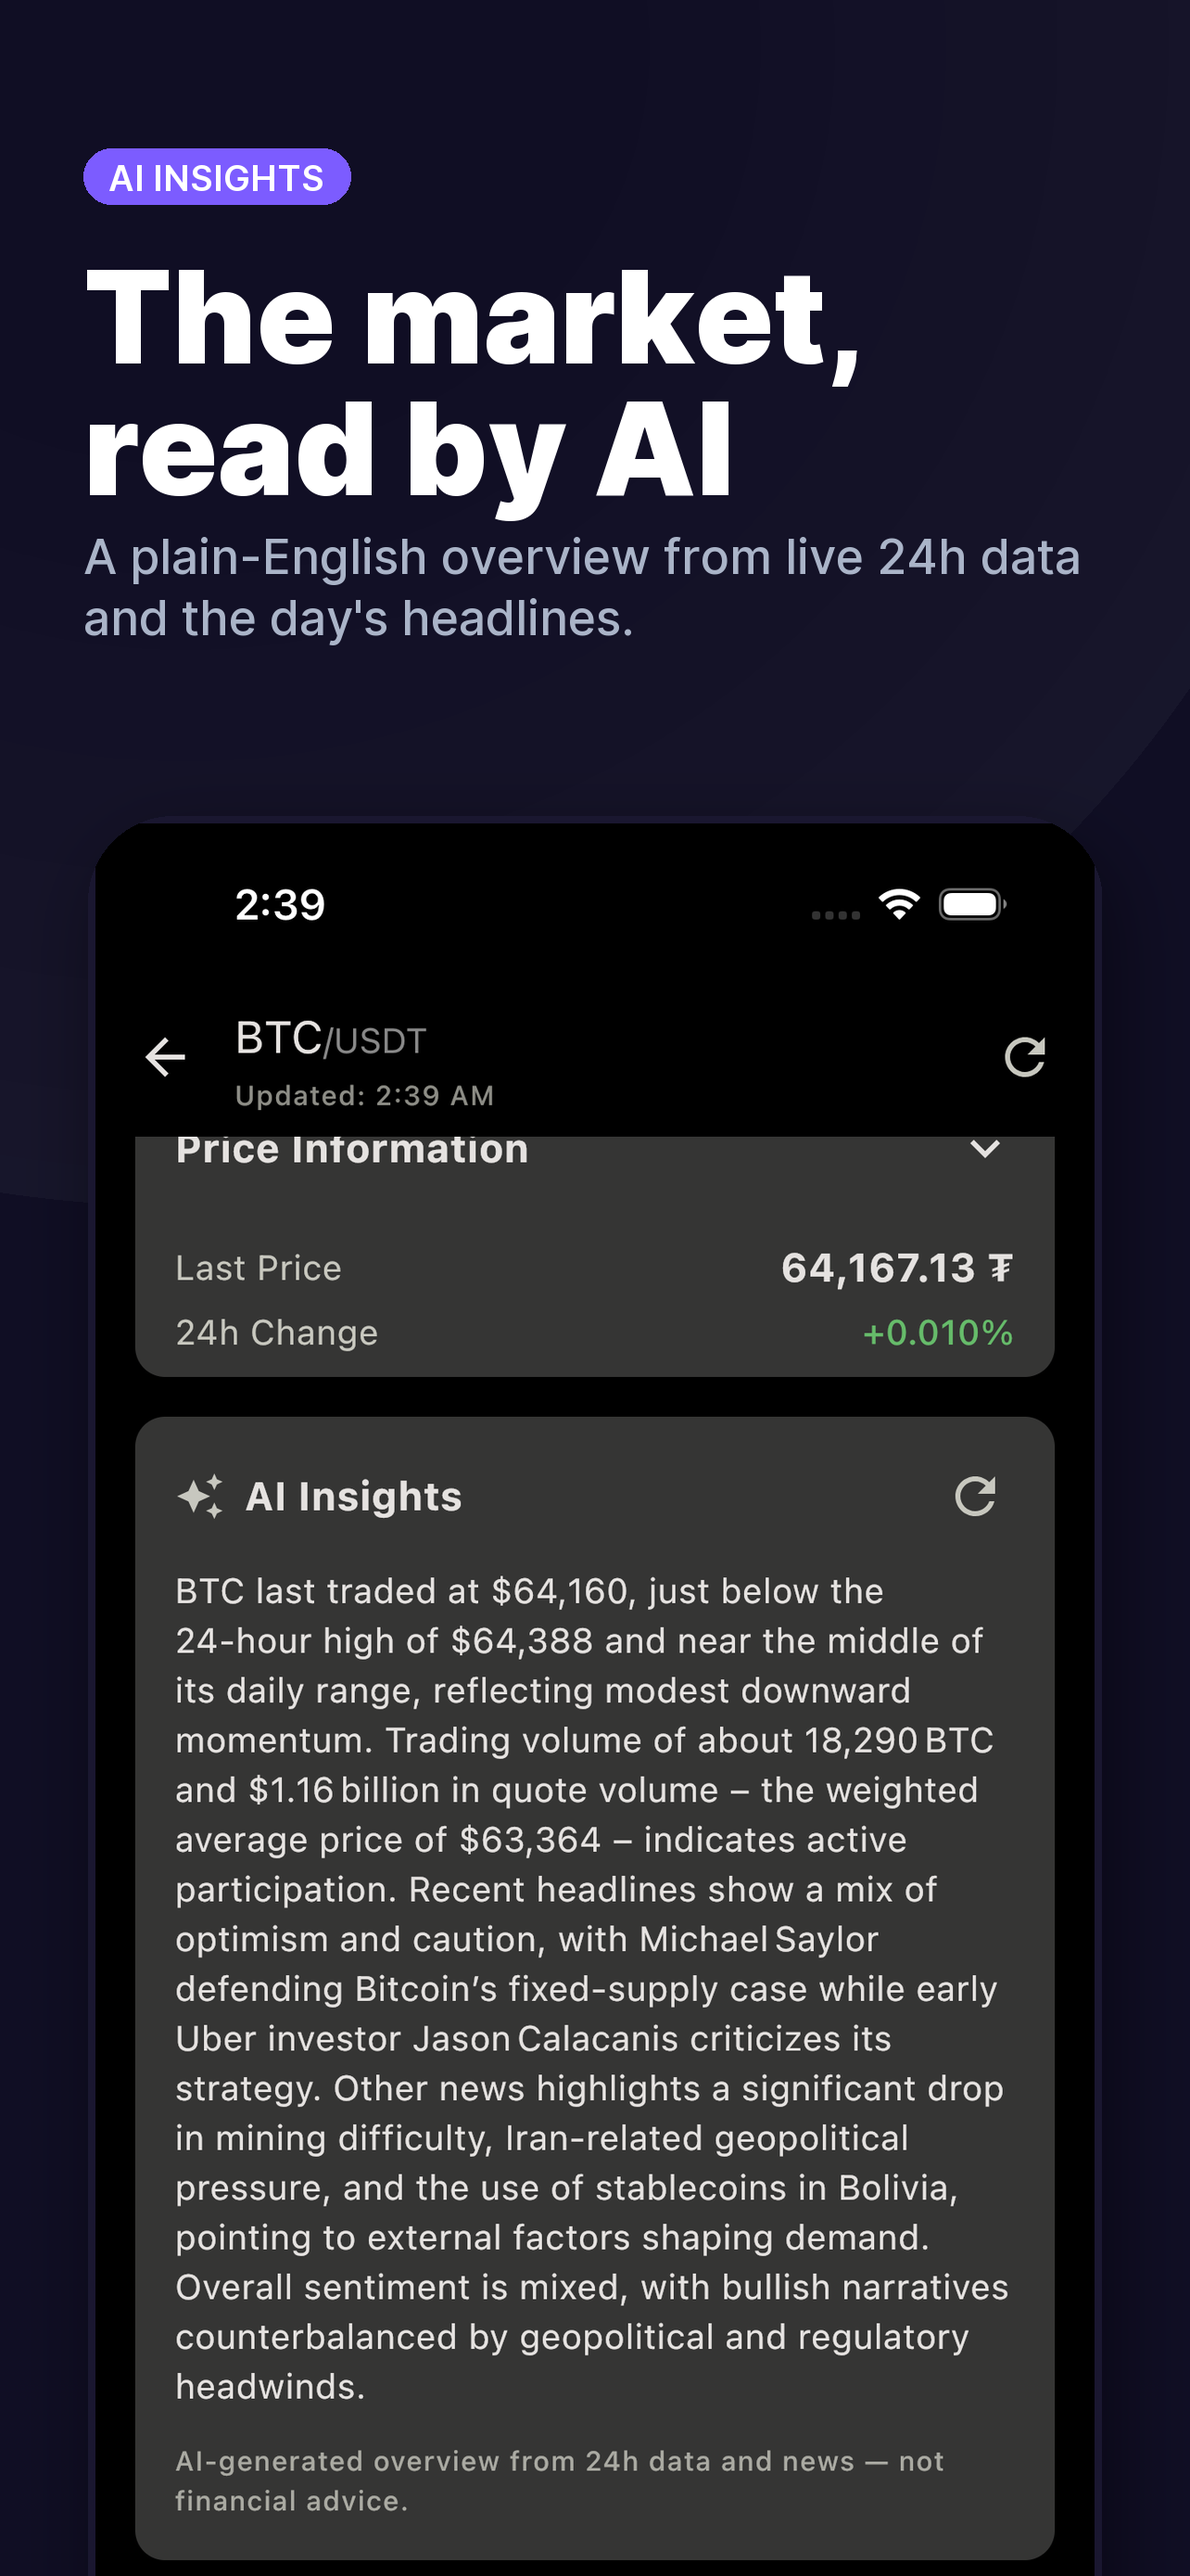
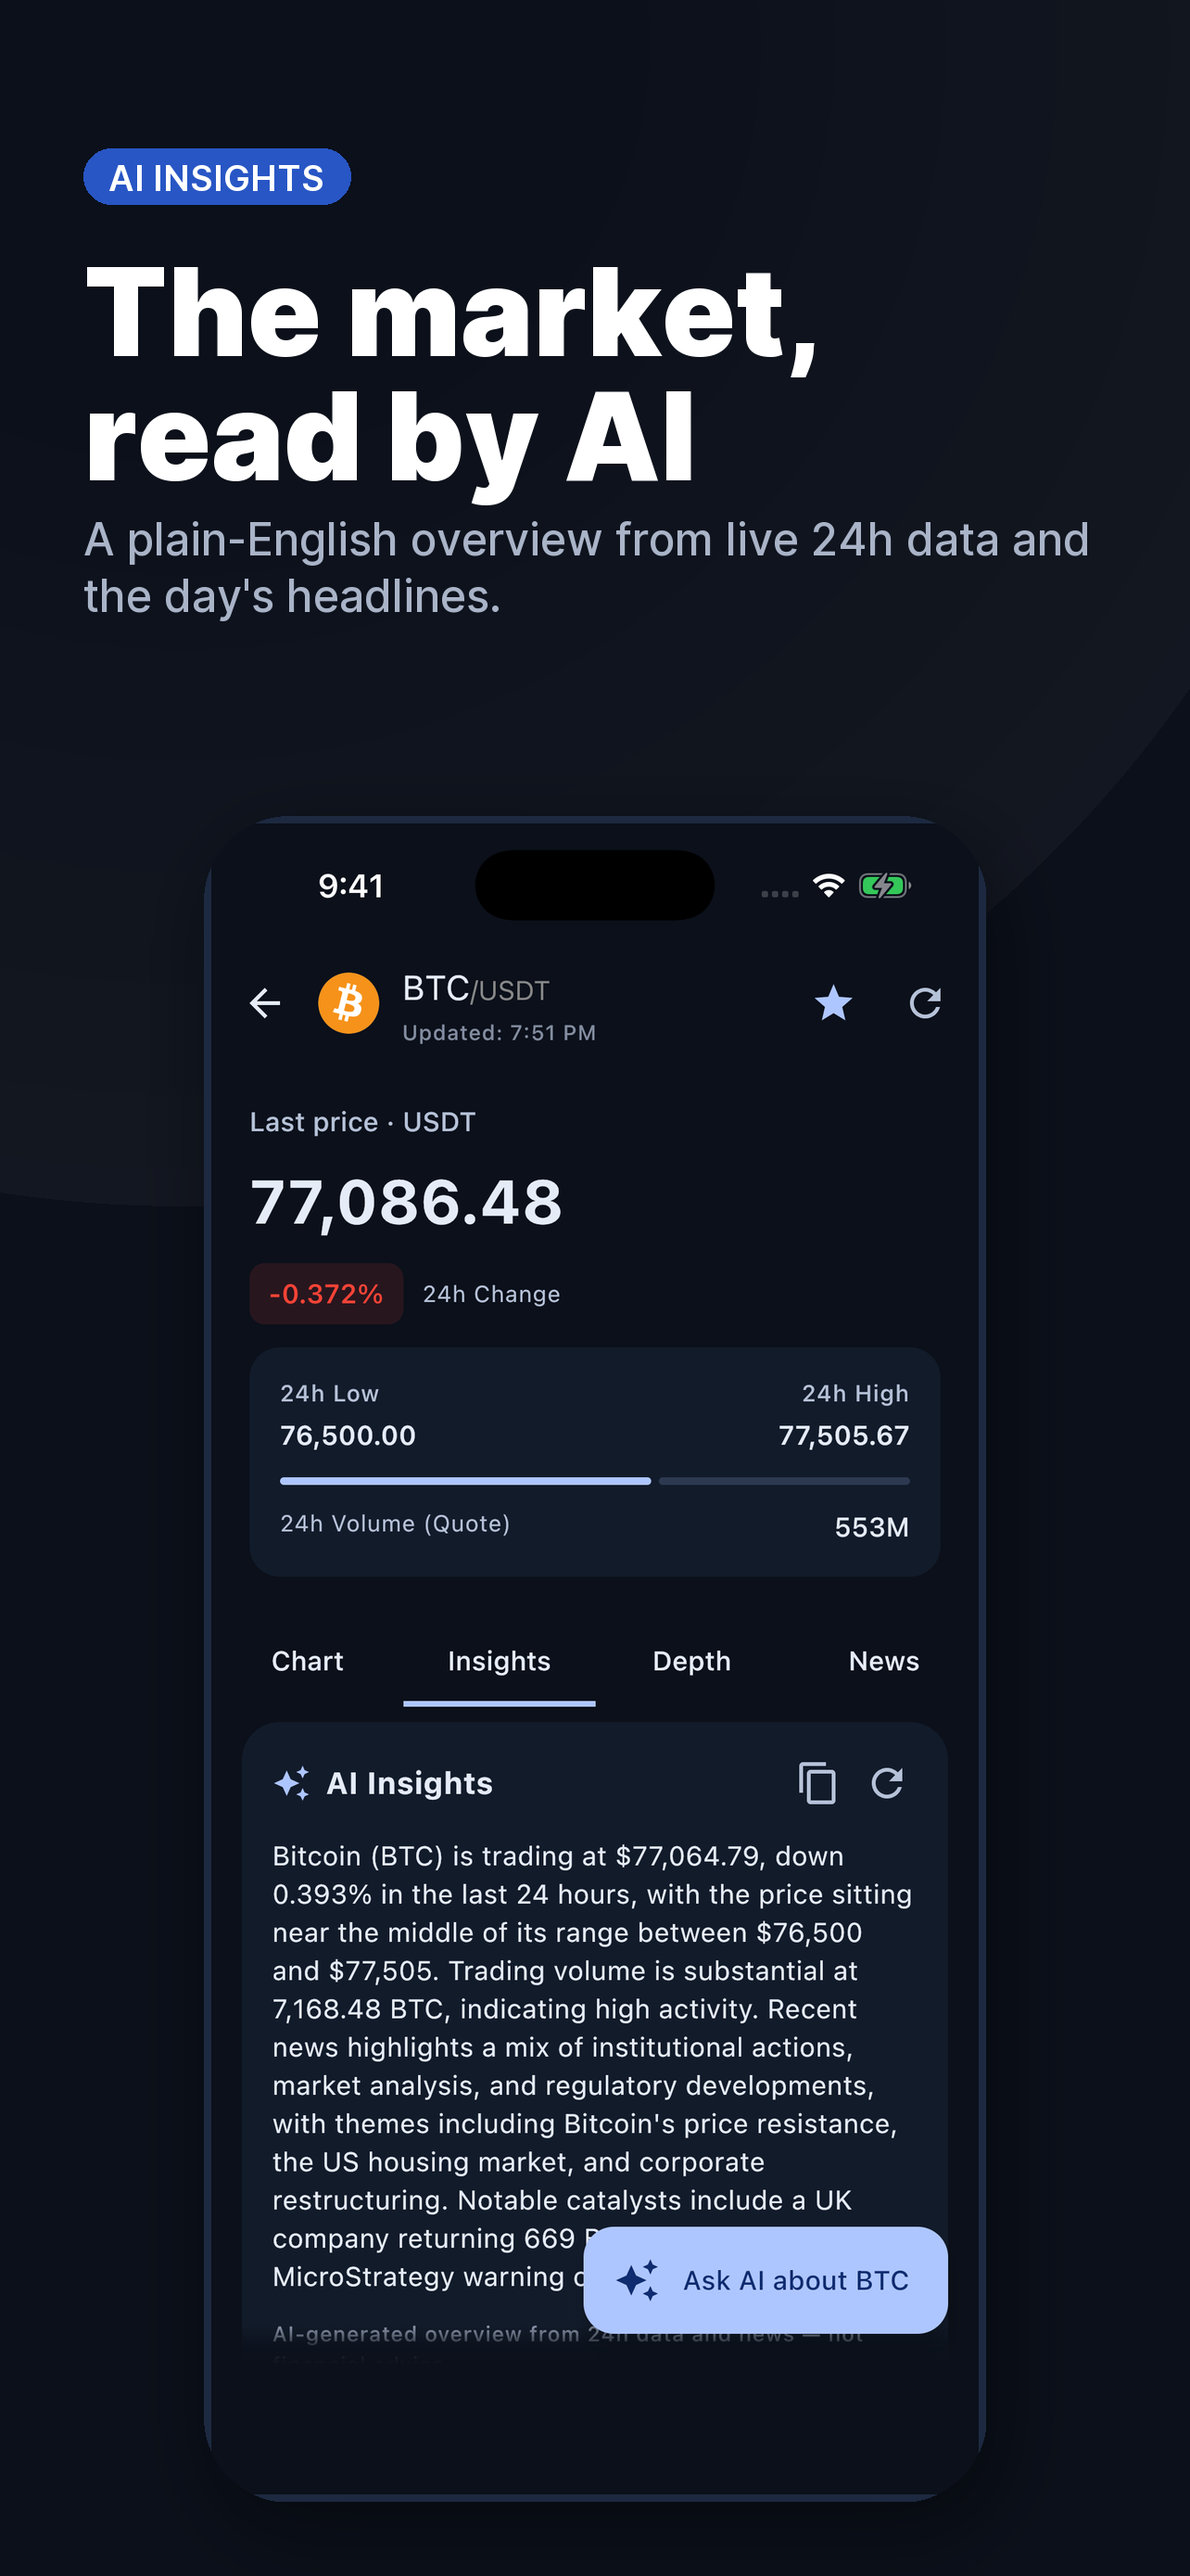
chore(assets): refresh store screenshots
Replace the iOS and Android store assets with fresh captures of the blue UI. Include iPad marketing frames, platform-specific feature graphics, a reusable render config, and an asset manifest.

Add optional full-phone framing to preserve navigation and chart content, and refresh the README showcase.

diff --git a/.claude/skills/deploy-ss/scripts/generate.py b/.claude/skills/deploy-ss/scripts/generate.py
@@ -191,6 +191,10 @@ def render_phone(spec, app, uploads_dir, out_dir):
     sw, sh = src.size
     target_w = int(PHONE_W * 0.84)
     target_h = int(target_w * sh / sw)
+    # Keep navigation and lower chart content visible in the refreshed store set.
+    if spec.get("fit_phone", False):
+        target_h = min(target_h, PHONE_H - phone_top - 96)
+        target_w = int(target_h * sw / sh)
     src = src.resize((target_w, target_h), Image.LANCZOS)
 
     bezel_px = 8

diff --git a/README.md b/README.md
@@ -17,7 +17,7 @@ A modern, cross-platform cryptocurrency tracking application built with Kotlin M
 </p>
 
 <p align="center"><sub><b>Phone</b> · iOS · 1284 × 2778 · App Store</sub></p>
-<p align="center"><sub><i>App Store set captured on the iOS simulator. Portfolio is seeded from live Hyperliquid leaderboard wallets; AI Insights is generated on-device from 24h market data and news.</i></sub></p>
+<p align="center"><sub><i>Refreshed blue UI captured on the iPhone 17 Pro simulator, September 13, 2026. Portfolio uses public Hyperliquid demo wallets; AI Insights uses live 24h data and news. Full-screen framing preserves the navigation and chart content.</i></sub></p>
 
 <table>
   <tr>
@@ -33,7 +33,7 @@ A modern, cross-platform cryptocurrency tracking application built with Kotlin M
 </table>
 
 <p align="center"><sub><b>Phone</b> · Android · 1284 × 2778 · Play Store</sub></p>
-<p align="center"><sub><i>Play Store set captured on the Android emulator — the same Compose Multiplatform UI runs on both.</i></sub></p>
+<p align="center"><sub><i>Refreshed blue UI captured separately on the Android emulator. The Android feature graphic is in <code>play-store/feature_graphic_1024x500.png</code>.</i></sub></p>
 
 <table>
   <tr>
@@ -49,7 +49,7 @@ A modern, cross-platform cryptocurrency tracking application built with Kotlin M
 </table>
 
 <p align="center"><sub><b>Tablet</b> · iOS · 2064 × 2752 · App Store 13" iPad Pro slot — marketing frames</sub></p>
-<p align="center"><sub><i>Sized for Apple's 13" iPad Pro (M4) Display slot (iPhone captures in a tablet canvas), in <code>screenshots/ipad/</code>. Play Store tablet listings would need a separate render pass at Google's recommended 7" / 10" dimensions.</i></sub></p>
+<p align="center"><sub><i>Sized for Apple's 13" iPad Pro Display slot (iPhone captures in a tablet canvas), in <code>screenshots/ipad/</code>. Play Store tablet listings would need a separate render pass at Google's recommended 7" / 10" dimensions.</i></sub></p>
 
 <table>
   <tr>
